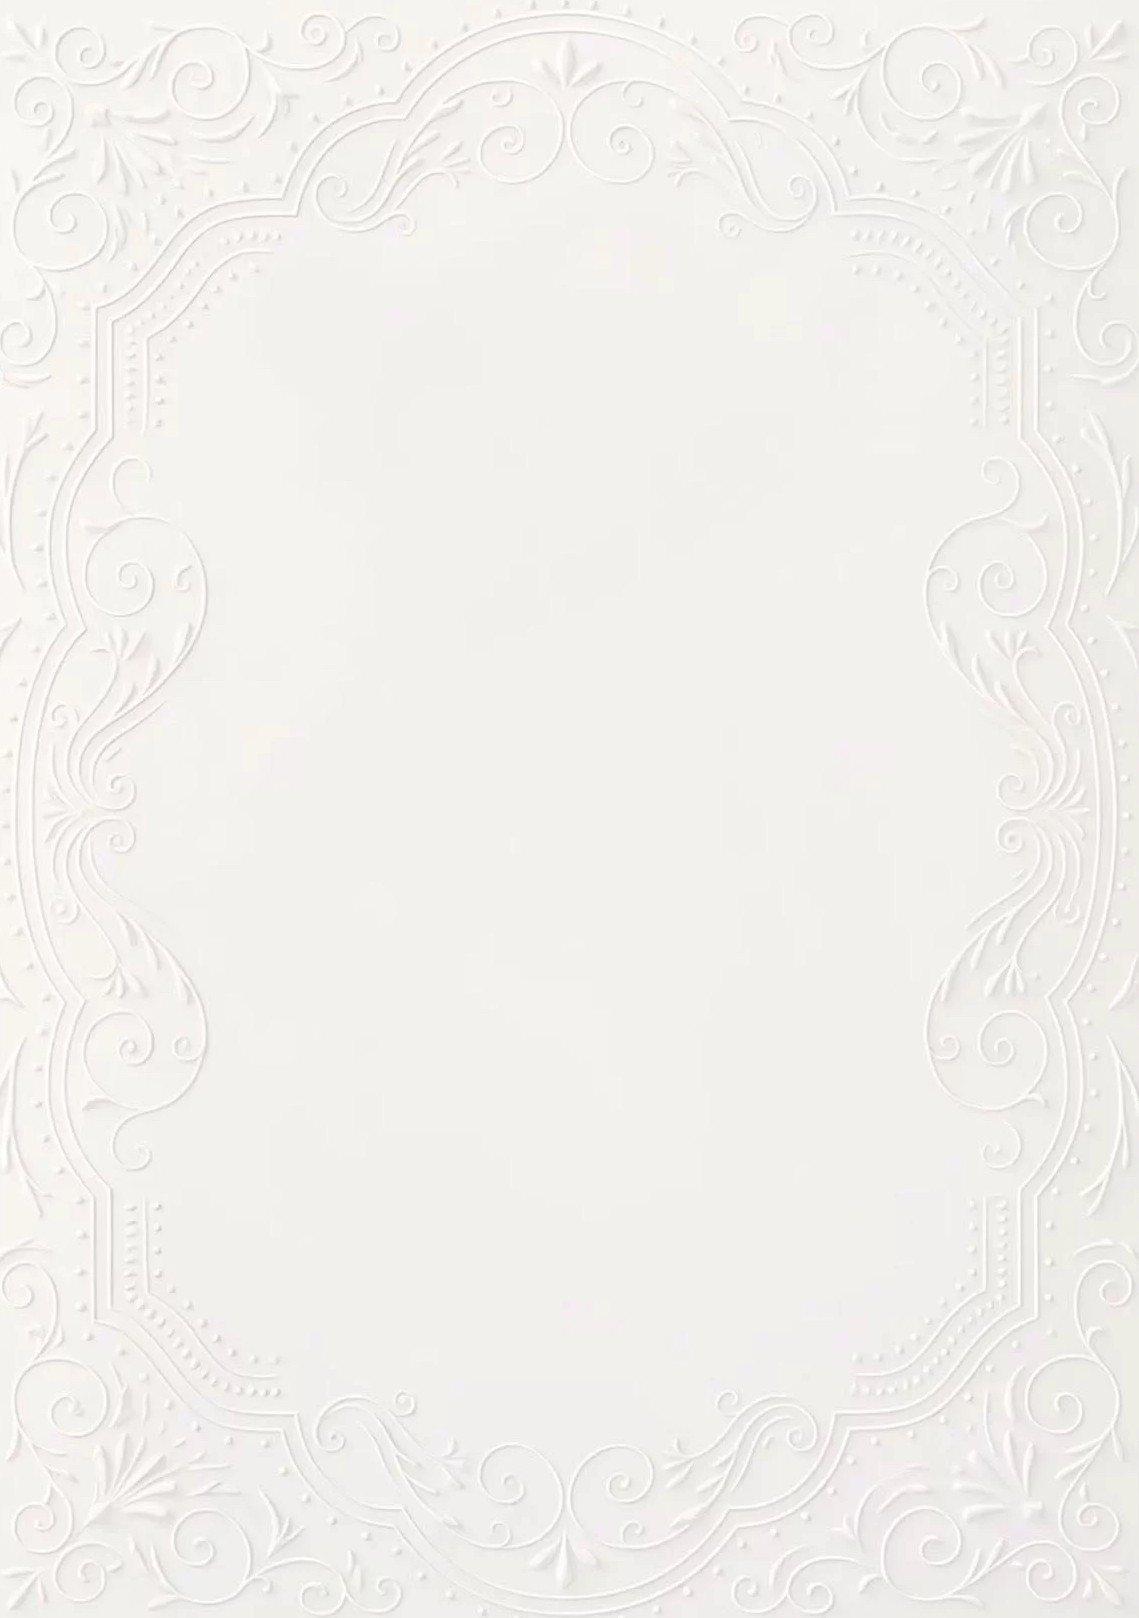
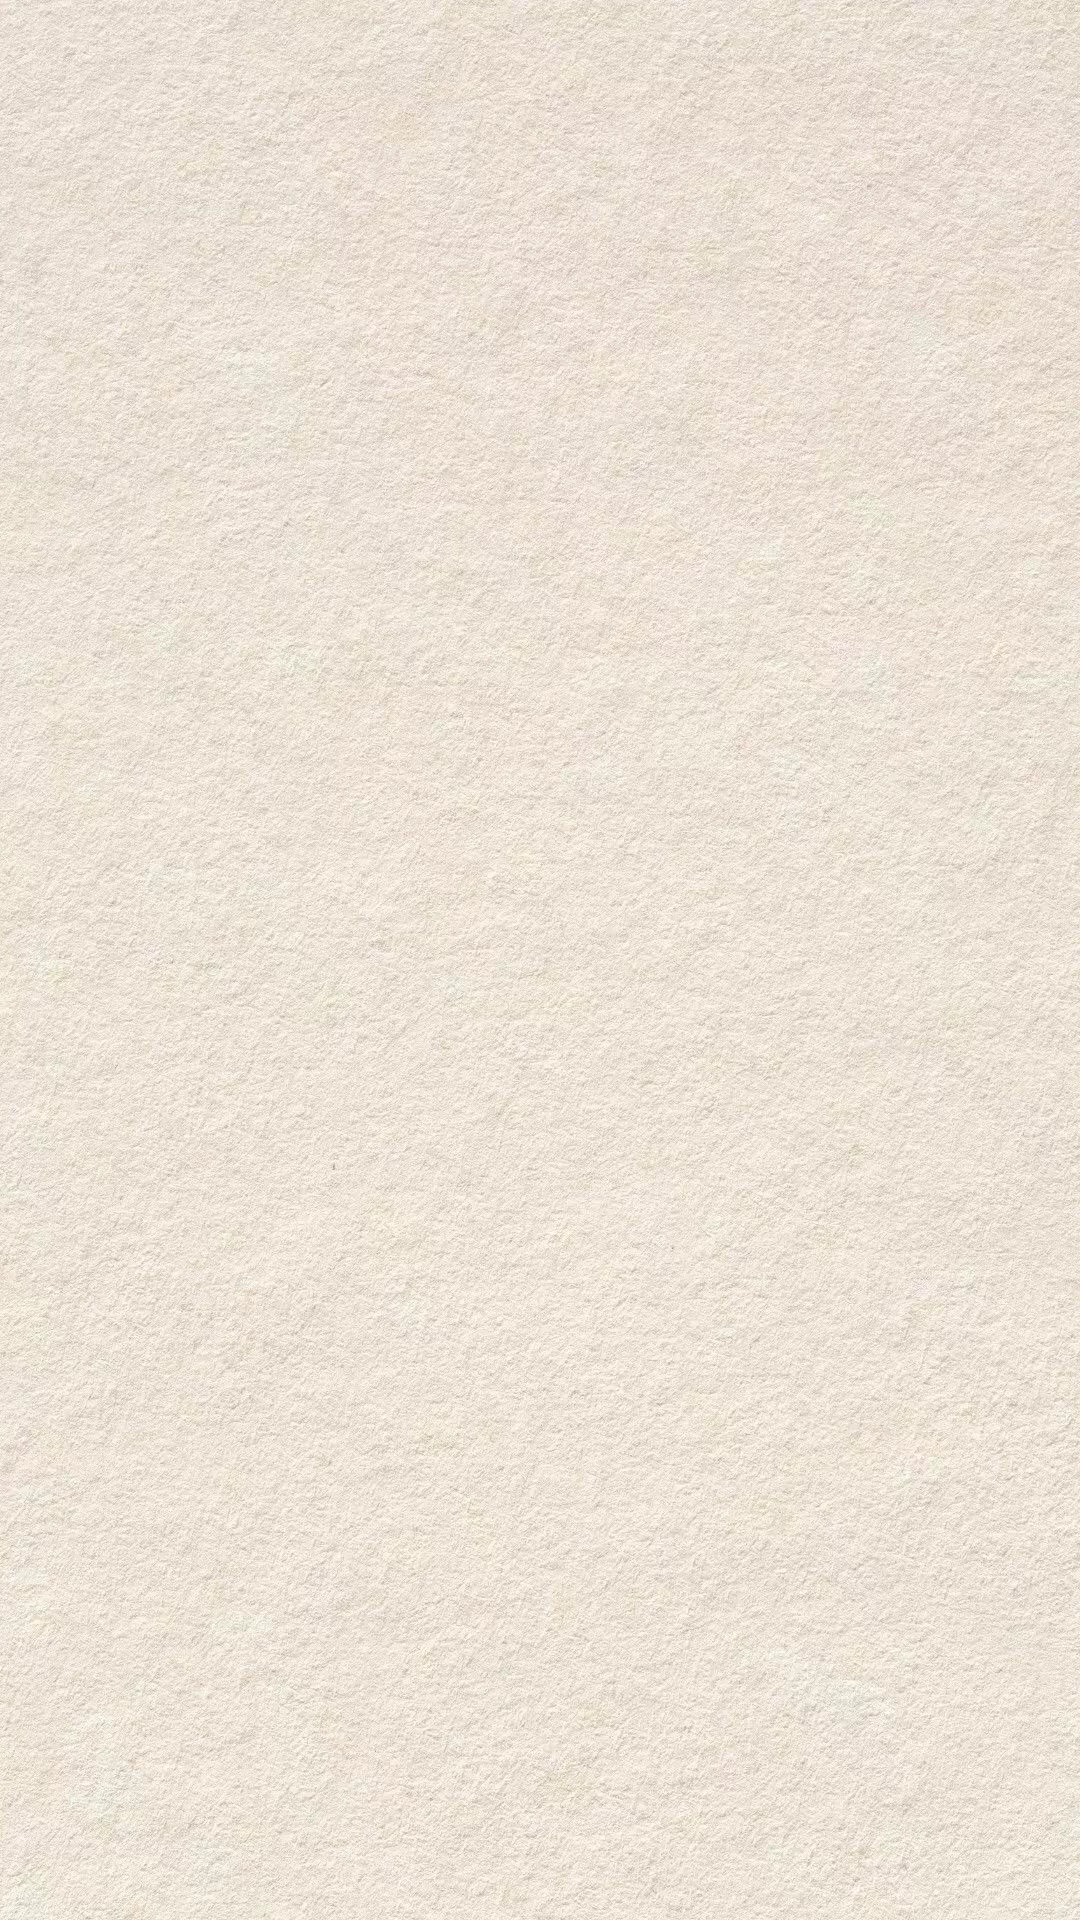
style: increase overlap between hero and greeting sections for smoother fade

diff --git a/src/components/Greeting.tsx b/src/components/Greeting.tsx
@@ -19,14 +19,14 @@ export default function Greeting() {
   const greetingText = config?.greetingMessage || DEFAULT_GREETING;
 
   return (
-    <section className="relative py-14 px-6 text-center fade-in">
+    <section className="relative -mt-32 pt-36 pb-14 px-6 text-center fade-in z-0">
       {/* Background Image with top fade-in transition */}
       <div 
         className="absolute inset-0 bg-cover bg-center z-0"
         style={{ 
           backgroundImage: `url(${invitationBg})`,
-          maskImage: 'linear-gradient(to bottom, transparent 0%, black 15%, black 100%)',
-          WebkitMaskImage: 'linear-gradient(to bottom, transparent 0%, black 15%, black 100%)'
+          maskImage: 'linear-gradient(to bottom, transparent 0%, black 25%, black 100%)',
+          WebkitMaskImage: 'linear-gradient(to bottom, transparent 0%, black 25%, black 100%)'
         }}
       ></div>
       {/* Light overlay to ensure text is readable against the background */}

diff --git a/src/components/Hero.tsx b/src/components/Hero.tsx
@@ -116,8 +116,8 @@ export default function Hero() {
         className={`absolute inset-0 bg-cover bg-center transition-opacity duration-[1500ms] ease-in-out z-[-1] ${bgLoaded ? 'opacity-100' : 'opacity-0'}`}
         style={{ 
           backgroundImage: `url("${bgImage}")`,
-          maskImage: 'linear-gradient(to bottom, black 85%, transparent 100%)',
-          WebkitMaskImage: 'linear-gradient(to bottom, black 85%, transparent 100%)'
+          maskImage: 'linear-gradient(to bottom, black 75%, transparent 100%)',
+          WebkitMaskImage: 'linear-gradient(to bottom, black 75%, transparent 100%)'
         }}
       ></div>
 
